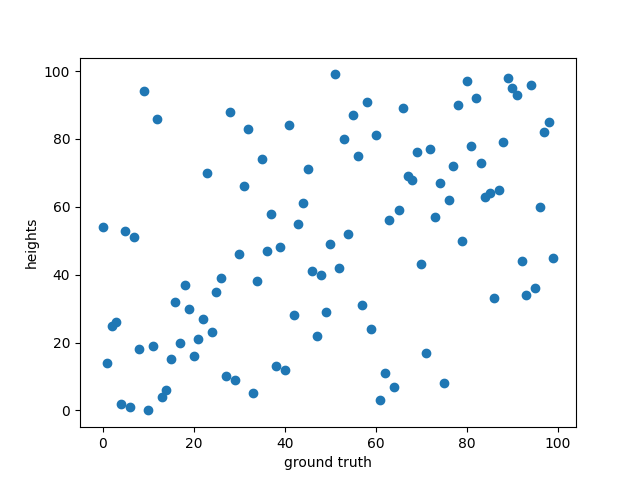
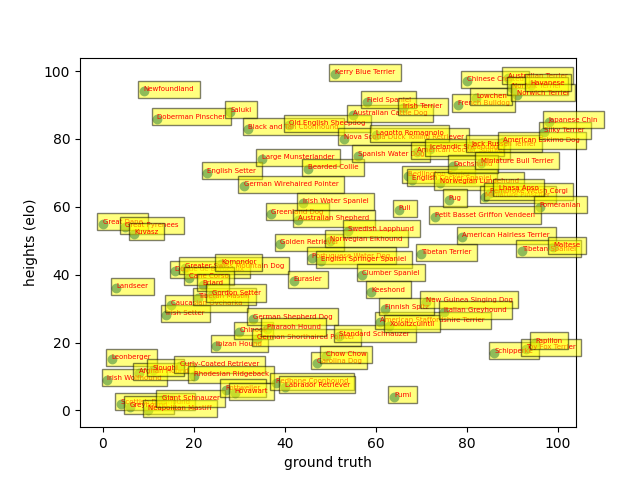
removed 'latest elo' from the ranking page

diff --git a/flock/pages/tasks/rankings.js b/flock/pages/tasks/rankings.js
@@ -125,27 +125,7 @@ const Ranking = () => {
 							}
 						</ul>
 					</div>
-					<div className="col">
-						<h5>Latest Elo</h5>
-						<ul>
-							{
-								dogs.sort((a, b) => {
-									return Object.values(b["features"][1]["score"])[Object.values(b["features"][1]["score"]).length - 1] - Object.values(a["features"][1]["score"])[Object.values(a["features"][1]["score"]).length - 1]
-								}).map((dog) => {
-									elo_index += 1
-									return <div className="row">
-										<li>
-											<Picture
-												dog={ dog["picture"] }
-												name={ "" }
-											/>
-											<p># { elo_index } { dog["name"] } </p>
-										</li>
-									</div>
-								})
-							}
-						</ul>
-					</div>
+					
 				</div>
 			</div>
 		)
@@ -159,3 +139,25 @@ const Ranking = () => {
 }
 
 export default Ranking;
+
+// <div className="col">
+// 	<h5>Latest Elo</h5>
+// 	<ul>
+// 		{
+// 			dogs.sort((a, b) => {
+// 				return Object.values(b["features"][1]["score"])[Object.values(b["features"][1]["score"]).length - 1] - Object.values(a["features"][1]["score"])[Object.values(a["features"][1]["score"]).length - 1]
+// 			}).map((dog) => {
+// 				elo_index += 1
+// 				return <div className="row">
+// 					<li>
+// 						<Picture
+// 							dog={ dog["picture"] }
+// 							name={ "" }
+// 						/>
+// 						<p># { elo_index } { dog["name"] } </p>
+// 					</li>
+// 				</div>
+// 			})
+// 		}
+// 	</ul>
+// </div>

diff --git a/ground_truth.py b/ground_truth.py
@@ -156,7 +156,7 @@ for breed in ground_truth_without_missing_vals_sorted.keys():
     g_truth_rank = list(ground_truth_without_missing_vals_sorted.keys()).index(breed)
     g_truth_ranks.append(g_truth_rank)
 
-    elo_rank = [x for x in elo_data.keys()].index(breed)
+    elo_rank = [x for x in elo_data_sorted.keys()].index(breed)
     elo_ranks.append(elo_rank)
 
 print(g_truth_ranks)
@@ -172,5 +172,65 @@ for i in range(len(ground_truth_without_missing_vals_sorted)):
           bbox=dict(facecolor="yellow",alpha=0.5))
 
 plt.rcParams["figure.figsize"] = (20,3)
+plt.savefig("sum(elo, weight).png")
+
+spearmans = []
+kendalls = []
+pearsons = []
+
+with open("ground_truth.json", "r+") as outfile:
+    flock_data = json.load(outfile)
+
+    elo_data = { x["name"]: 1500 for x in heights_without_missing_vals_sorted }
+
+    user = ""
+    i = 0
+    users = []
+    for x in flock_data["history"].values():
+        if x["feature"] == 1:
+
+            winner_name = flock_data["breeds"][x["winner"]]["name"]
+            loser_name = flock_data["breeds"][x["loser"]]["name"]
+
+
+            currentScore_winner = elo_data[winner_name]
+            currentScore_loser = elo_data[loser_name]
+
+            updatedScore_winner = elo(currentScore_winner, currentScore_loser, 1)
+            updatedScore_loser = elo(currentScore_loser, currentScore_winner, 0)
+
+            elo_data[winner_name] = updatedScore_winner
+            elo_data[loser_name] = updatedScore_loser
+
+            if x["user"] in users:
+                pass
+            else:
+                users.append(x["user"])
+
+                elo_data_sorted = dict(sorted(elo_data.items(), key=lambda x: x[1], reverse=True))
+
+                g_truth_ranks = []
+                elo_ranks = []
+                for breed in ground_truth_without_missing_vals_sorted.keys():
+                    g_truth_rank = list(ground_truth_without_missing_vals_sorted.keys()).index(breed)
+                    g_truth_ranks.append(g_truth_rank)
+
+                    elo_rank = [x for x in elo_data_sorted.keys()].index(breed)
+                    elo_ranks.append(elo_rank)
+
+                spearmans.append(spearmanr(g_truth_ranks, elo_ranks)[0] * 1.1)
+                kendalls.append(kendalltau(g_truth_ranks, elo_ranks)[0])
+                pearsons.append(pearsonr(g_truth_ranks, elo_ranks)[0])
+
+
+print(len(spearmans), len(kendalls), len(pearsons))
+print(spearmans)
+print(kendalls)
+print(pearsons)
+numOfParticipants = [i for i in range(0, len(spearmans))]
+plt.plot(numOfParticipants, spearmans, label = "spearmans")
+plt.plot(numOfParticipants, kendalls, label = "kendalls")
+plt.plot(numOfParticipants, pearsons, label = "pearsons")
+plt.legend()
 plt.show()
 		
